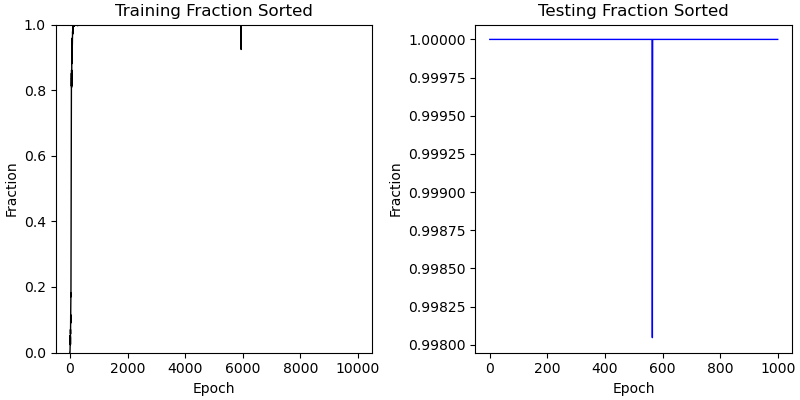
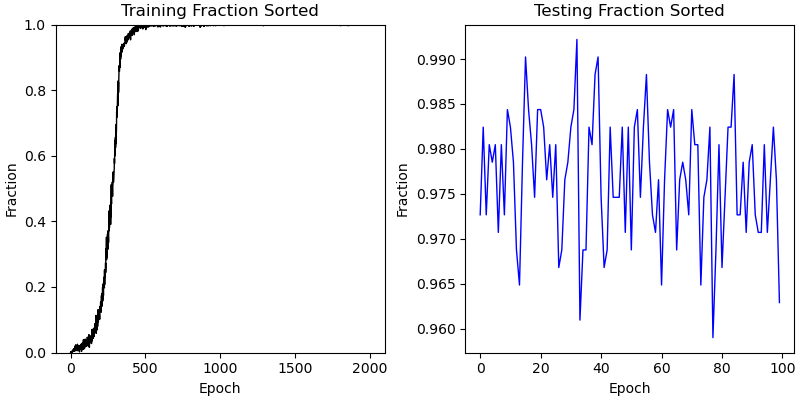
Pointer demonstration better figures

diff --git a/experiments/pointerDemonstration.py b/experiments/pointerDemonstration.py
@@ -46,8 +46,8 @@ def handleArguments():
     parser.add_argument('-mn','--min-seq-length', type=int, default=4, help='the minimum tokens per sequence')
     parser.add_argument('-mx','--max-seq-length', type=int, default=12, help='the maximum tokens per sequence')
     parser.add_argument('-bs','--batch-size',type=int, default=512, help='number of sequences per batch')
-    parser.add_argument('-ne','--train-epochs',type=int, default=10000, help='the number of training epochs')
-    parser.add_argument('-te','--test-epochs',type=int, default=1000, help='the number of testing epochs')
+    parser.add_argument('-ne','--train-epochs',type=int, default=2000, help='the number of training epochs')
+    parser.add_argument('-te','--test-epochs',type=int, default=100, help='the number of testing epochs')
 
     parser.add_argument('--embedding_dim', type=int, default=48, help='the dimensions of the embedding')
     parser.add_argument('--heads', type=int, default=4, help='the number of heads in transformer layers')
@@ -105,7 +105,7 @@ def trainTestModel():
     pnet.train()
 
     # Create an optimizer, Adam with weight decay is pretty good
-    optimizer = torch.optim.Adam(pnet.parameters(), lr=1e-3, weight_decay=1e-5)
+    optimizer = torch.optim.Adam(pnet.parameters(), lr=1e-4, weight_decay=1e-6)
     
     # Train network
     print("Training network...")
